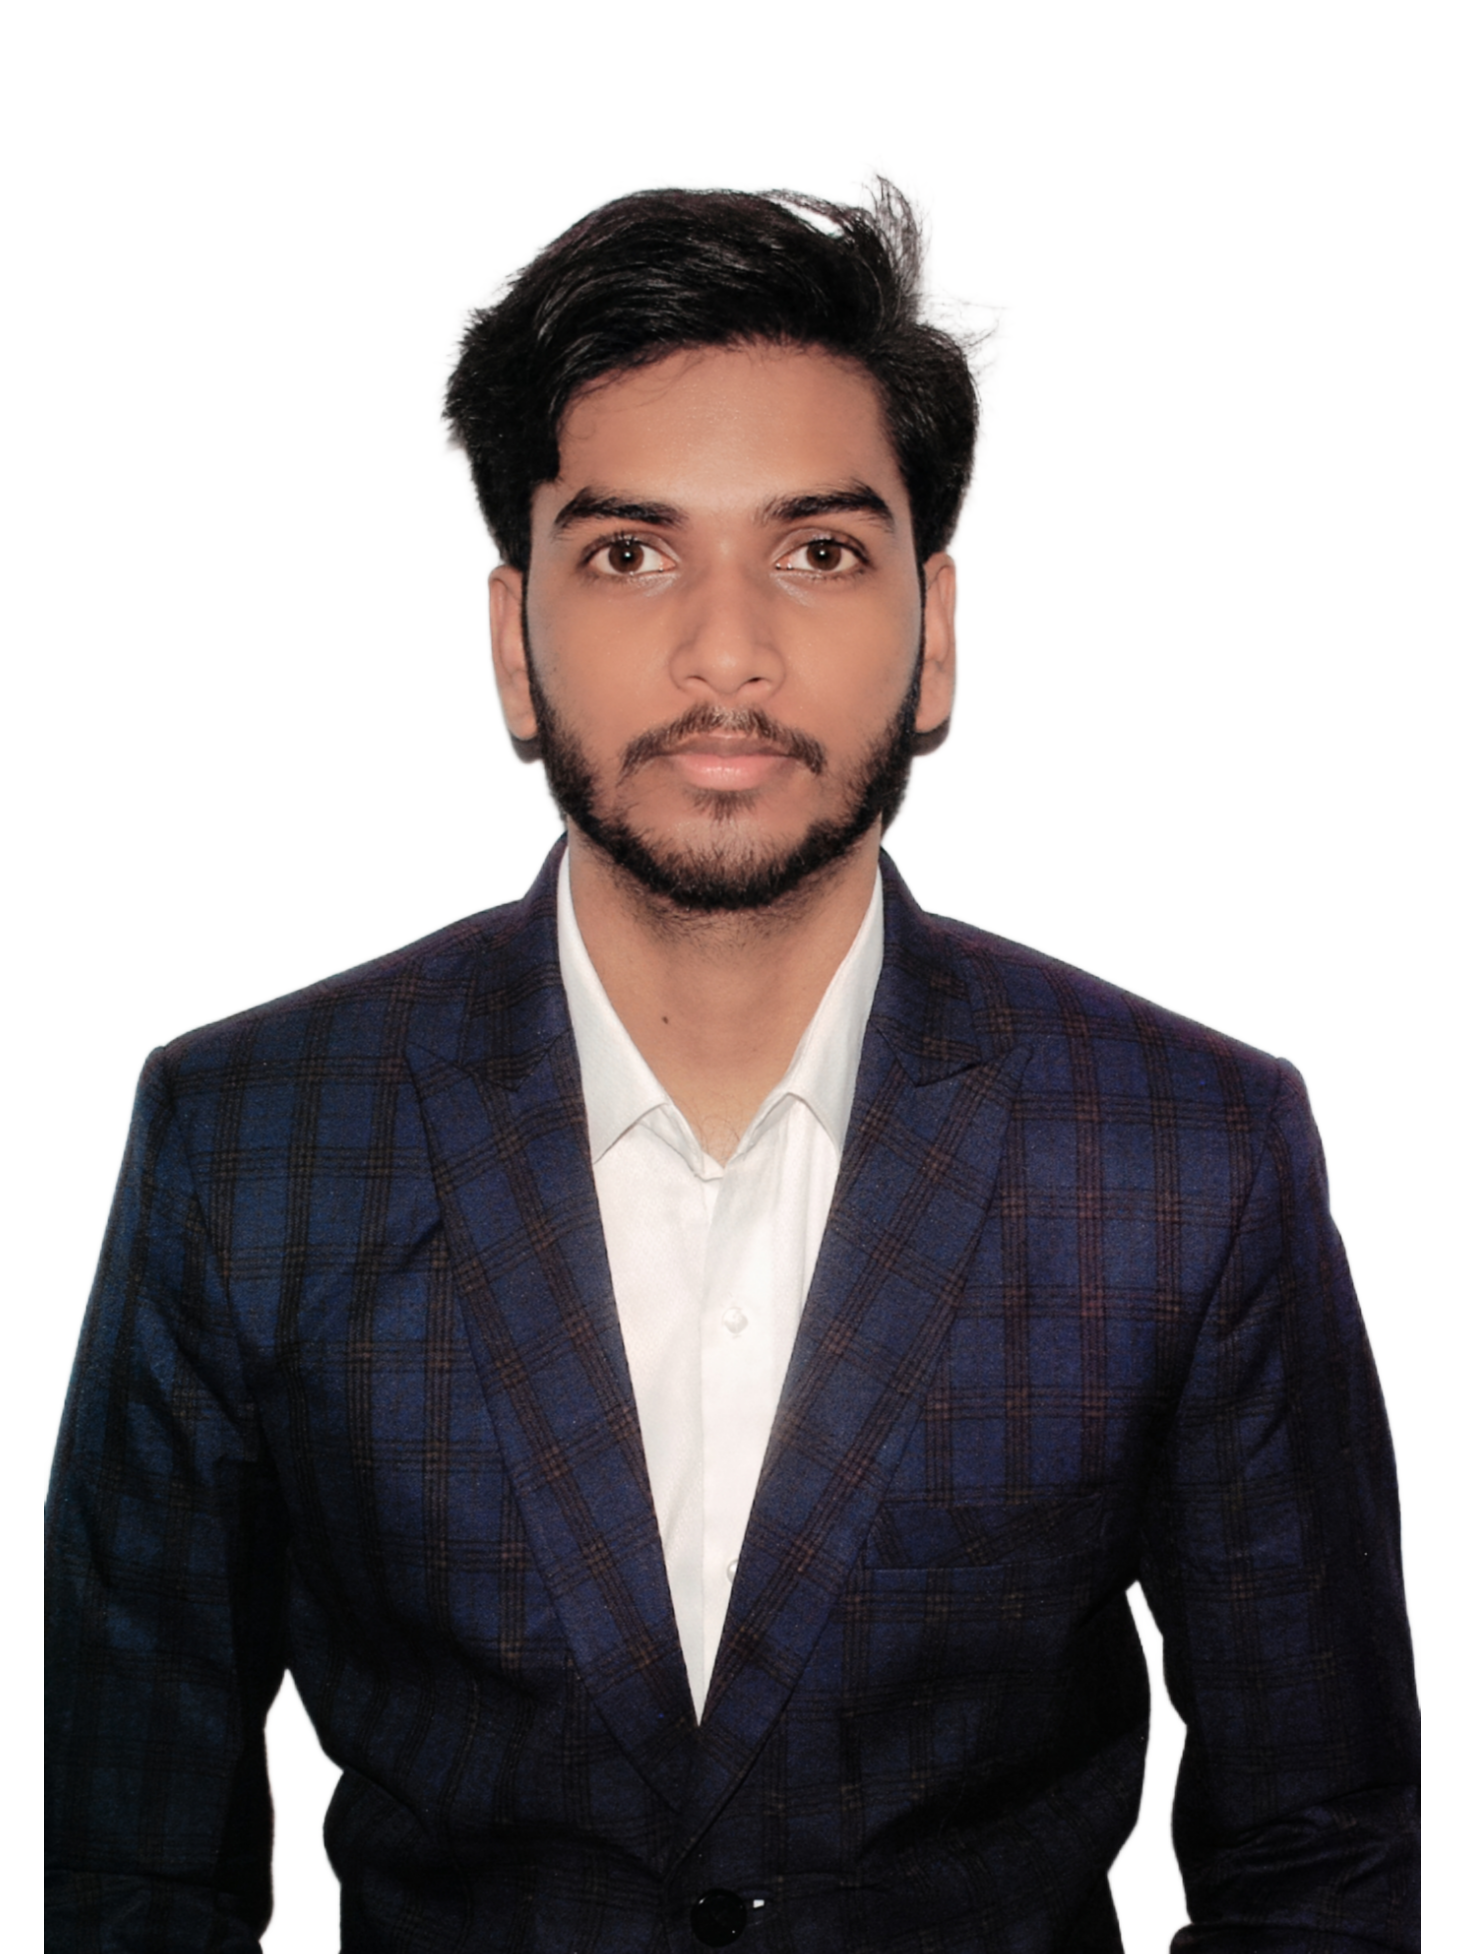
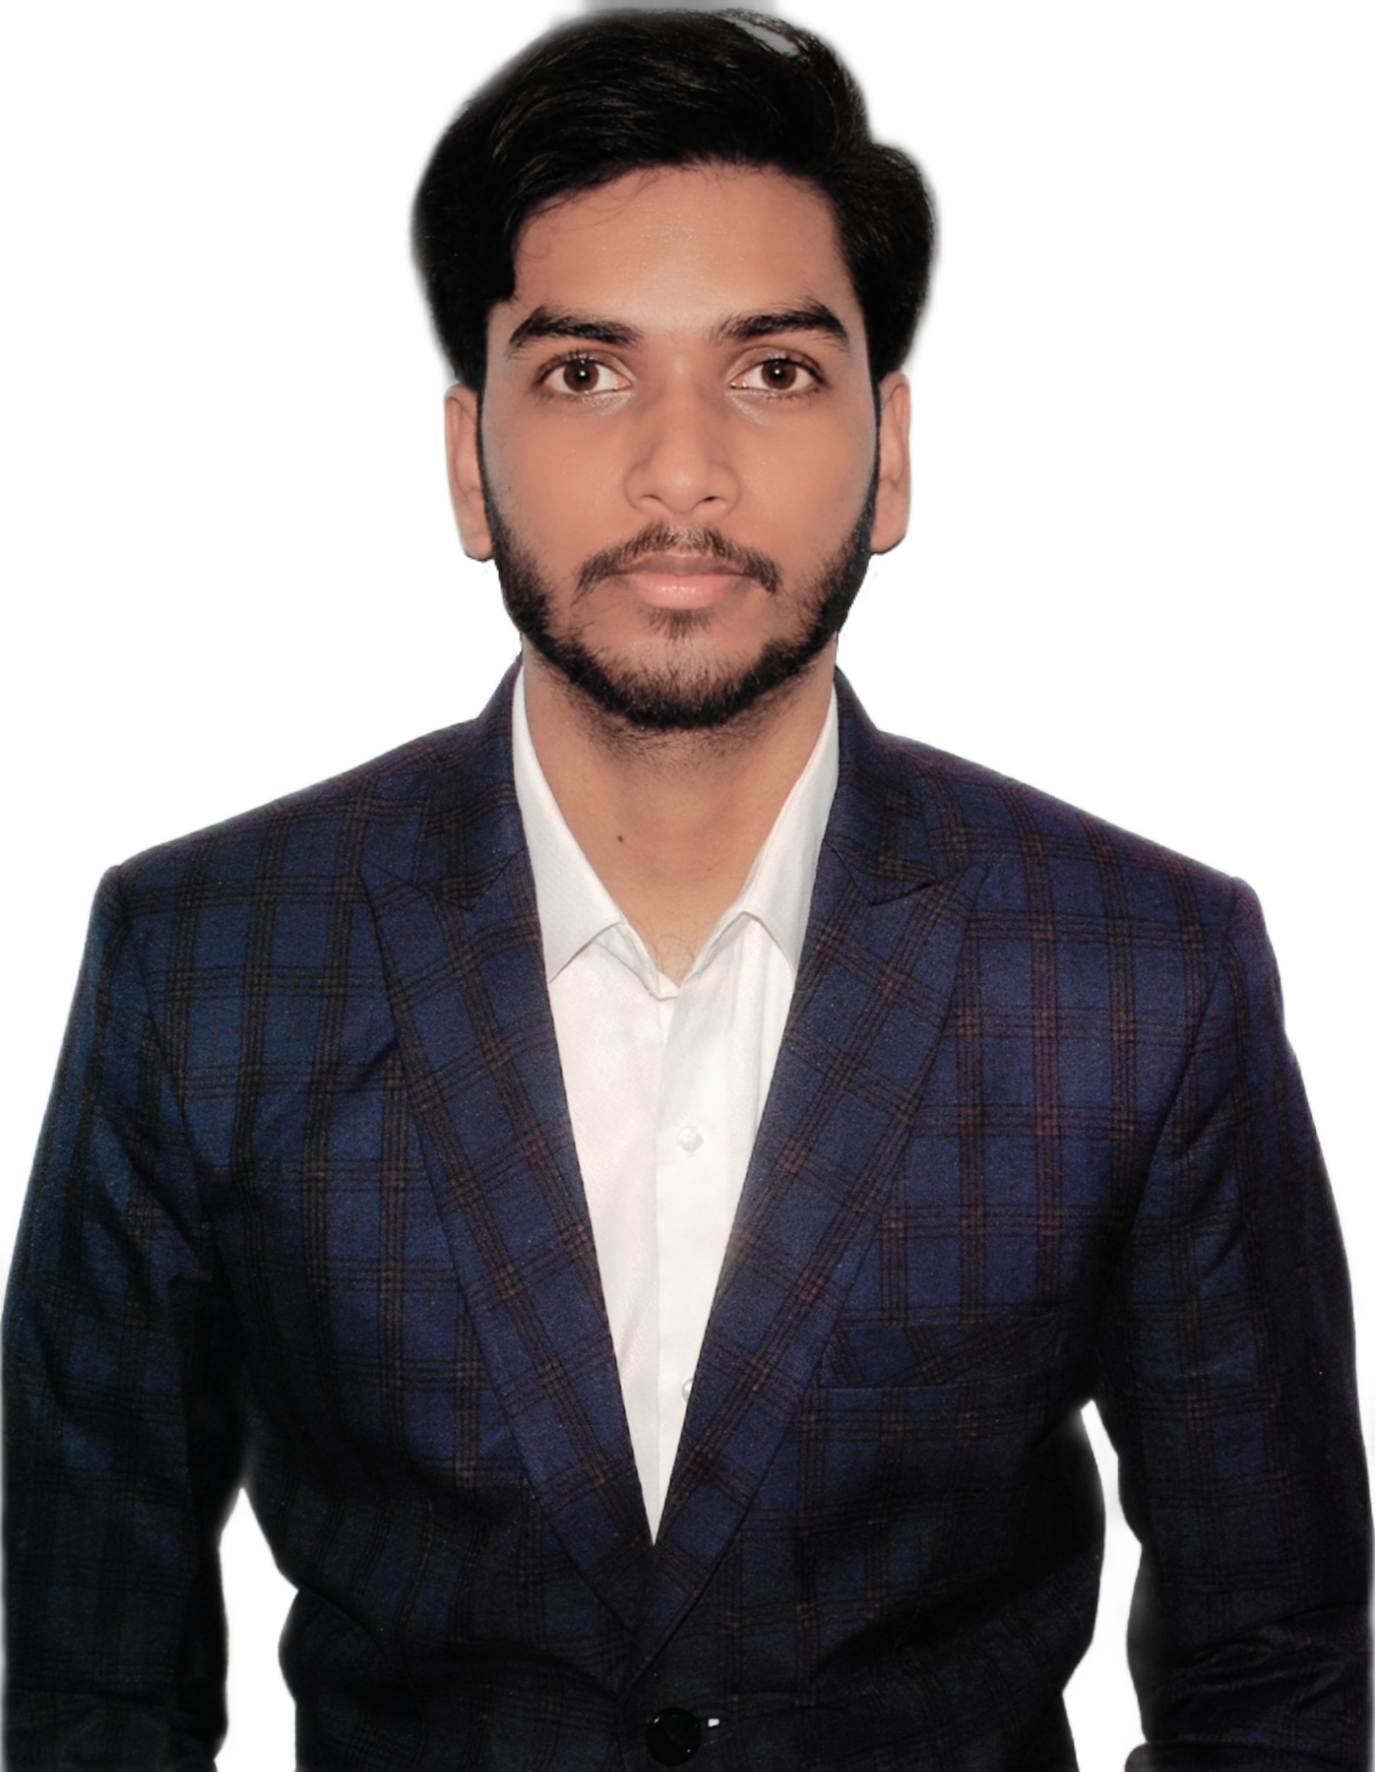
update myphoto

diff --git a/src/main/main content/PhotoSection.jsx b/src/main/main content/PhotoSection.jsx
@@ -5,7 +5,7 @@ import EmailOutlinedIcon from '@mui/icons-material/EmailOutlined';
 import GitHubIcon from '@mui/icons-material/GitHub';
 import { FaLinkedinIn } from "react-icons/fa6";
 import myphoto1 from '../../assets/images/myphoto1.png';
-import myBg from '../../assets/images/myBg.jpg'
+
 
 function PhotoSection() {
 
@@ -26,7 +26,7 @@ function PhotoSection() {
        
        <a href={emailUrl} target="_blank" rel="noopener noreferrer"> <EmailOutlinedIcon fontSize='medium'/></a>
         </button>
-        <div className={`profile-pic flex justify-center items-center`} >
+        <div className={`profile-pic flex justify-center items-center pt-2 sm:pt-4`} >
     <img src={myphoto1} alt="Profile" />
 </div>
 
